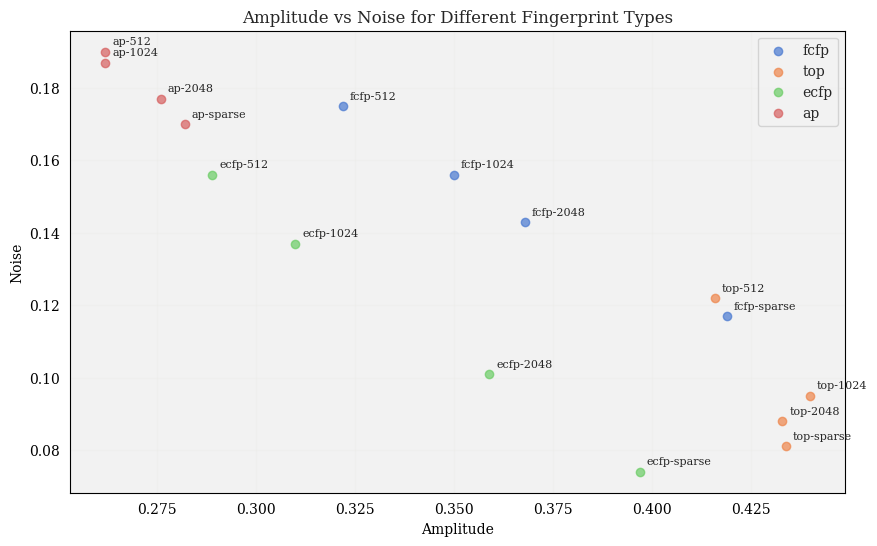
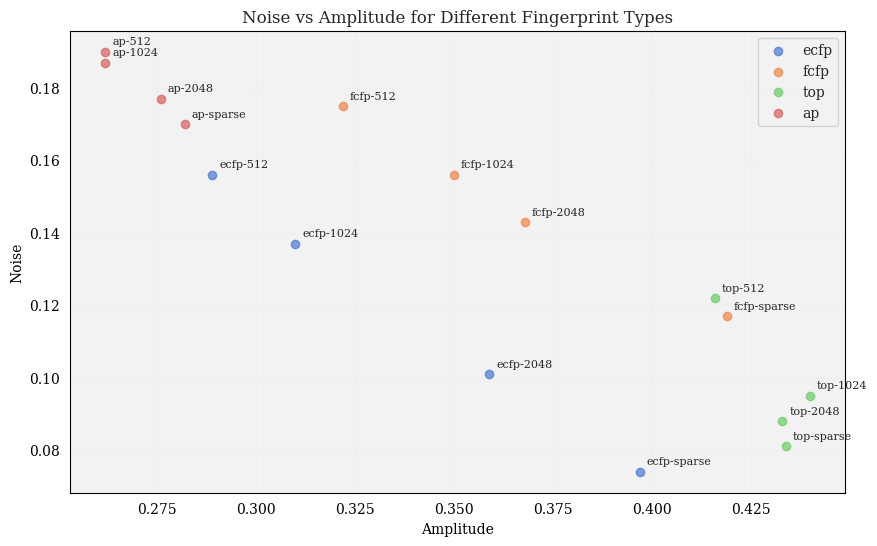
GP param diagnosis

diff --git a/code/bo_exp.py b/code/bo_exp.py
@@ -79,7 +79,7 @@ def get_data():
 def split_data(X, y, split_method, split):
 
     if split_method == 'random':
-        X, X_observed, y, y_observed = train_test_split(X, y, test_size=split, random_state=42)
+        X, X_observed, y, y_observed = train_test_split(X, y, test_size=split, random_state=1984)
 
     elif split_method == 'n_worst':
         
@@ -89,18 +89,18 @@ def split_data(X, y, split_method, split):
         lowest_indices = sorted_indices[:n] # Lowest n values
         rest_indices = sorted_indices[n:]   # All other indices
 
-        X, X_observed, y, y_observed = list(X[rest_indices]), list(X[lowest_indices]), list(y[rest_indices]), list(y[lowest_indices])
+        X, X_observed, y, y_observed = X[rest_indices], X[lowest_indices], y[rest_indices], y[lowest_indices]
 
-    return X, X_observed, y, y_observed
+    return list(X), list(X_observed), list(y), list(y_observed)
 
 
 
-def make_plot(best, best_uniform):
+def make_plot(best, best_uniform, num_top10_ucb, num_top10_uniform):
 
-    plt.plot(np.arange(len(best)), best, lw=1, label='UCB')
+    plt.plot(np.arange(len(best)), best, lw=1, label=f'UCB (Num > 90th percentile: {num_top10_ucb})')
     plt.scatter(np.arange(len(best)), best, s=5)
 
-    plt.plot(np.arange(len(best)), best_uniform, lw=1, label='Uniform')
+    plt.plot(np.arange(len(best)), best_uniform, lw=1, label=f'Uniform (Num > 90th percentile: {num_top10_uniform})')
     plt.scatter(np.arange(len(best)), best_uniform, s=5)
 
     plt.xlabel('Iteration')
@@ -118,14 +118,14 @@ def run_exp1(split_method, split, acq, num_iters):
     X, y = get_data()
     X, X_observed, y, y_observed = split_data(X, y, split_method, split)
     gp, gp_params = init_gp(X_observed, y_observed)
-    best, _, _, _ = optimization_loop(X, y, X_observed, y_observed, gp, gp_params, acq, num_iters=num_iters)
+    best, _, _, _, num_top10_ucb = optimization_loop(X, y, X_observed, y_observed, gp, gp_params, acq, num_iters=num_iters)
 
     X, y = get_data()
     X, X_observed, y, y_observed = split_data(X, y, split_method, split)
     gp, gp_params = init_gp(X_observed, y_observed)
-    best_uniform, _, _, _ = optimization_loop(X, y, X_observed, y_observed, gp, gp_params, uniform, num_iters=num_iters)
+    best_uniform, _, _, _, num_top10_uniform = optimization_loop(X, y, X_observed, y_observed, gp, gp_params, uniform, num_iters=num_iters)
 
-    make_plot(best, best_uniform)
+    make_plot(best, best_uniform, num_top10_ucb, num_top10_uniform)
 
 
 

diff --git a/code/utils/bo.py b/code/utils/bo.py
@@ -4,25 +4,35 @@ from scipy import stats
 def optimization_loop(X, y, X_observed, y_observed, gp, gp_params, acq_func, num_iters=30):
     
     best = []
+    num_top10 = 0
+    y_init = y.copy()
+
+    # for s in y_observed:
+    #     percentile = stats.percentileofscore(y_init, s)
+    #     if percentile > 90:
+    #         num_top10 += 1
     
     for i in range(num_iters):
 
         best.append(np.max(y_observed))
 
-        print(f"Iter: {i} | Current best: {np.max(best)} | Percentile: {stats.percentileofscore(y, np.max(best))}")
+        print(f"Iter: {i} | Current best: {np.max(best):0.3f} | Percentile: {stats.percentileofscore(y_init, np.max(best)):0.3f}")
 
         idx = acq_func(X, gp, gp_params)
 
         X_new = X.pop(idx)
         y_new = y.pop(idx)
 
-        percentile = stats.percentileofscore(y, y_new)
+        percentile = stats.percentileofscore(y_init, y_new)
 
-        print(f"Observed function value: {y_new} | Percentile: {percentile}")
+        if percentile > 90:
+            num_top10 += 1
+
+        print(f"Observed function value: {y_new:0.3f} | Percentile: {percentile:0.3f}")
 
         X_observed.append(X_new)
         y_observed.append(y_new)
 
         gp.set_training_data(X_observed, y_observed)
 
-    return best, X_observed, y_observed, gp
+    return best, X_observed, y_observed, gp, num_top10

diff --git a/code/utils/misc.py b/code/utils/misc.py
@@ -21,7 +21,7 @@ def optimize_params(gp, gp_params, tol=1e-3, max_iters=1000):
     Args:
         gp: Gaussian Process instance
         gp_params: Initial parameters
-        tol: Tolerance for convergence (default 1e-5)
+        tol: Tolerance for convergence (default 1e-3)
         max_steps: Maximum optimization steps (default 1000)
     """
 
@@ -46,9 +46,6 @@ def optimize_params(gp, gp_params, tol=1e-3, max_iters=1000):
         if grad_norm < tol:
             print(f"Converged after {i+1} steps, gradient norm = {grad_norm}")
             break
-
-    else:
-        print("Reached maximum iterations")
 
     print(f"End MLL (after optimization): {-loss}")
     print(f"End GP parameters (after optimization): {gp_params}")

diff --git a/code/evaluate_fingerprints.py b/code/evaluate_fingerprints.py
@@ -215,9 +215,9 @@ def plot(exp, fps, sizes, data, savefig=False):
 
     plt.xlabel('Amplitude')
     plt.ylabel('Noise')
-    plt.legend()
     plt.grid(True, alpha=0.3)
-    plt.title('Amplitude vs Noise for Different Fingerprint Types')
+    plt.title('Noise vs Amplitude for Different Fingerprint Types')
+    plt.legend()
 
     # Add text labels for each point
     for i, (x_val, y_val, col) in enumerate(zip(X, y, params.columns)):

diff --git a/code/utils/acq_funcs.py b/code/utils/acq_funcs.py
@@ -1,6 +1,6 @@
 import numpy as np
 
-def ucb(X, gp, gp_params, beta=.15):
+def ucb(X, gp, gp_params, beta=.05):
     """
     Computes the upper confidence bound (UCB) at points X
     using a fitted Gaussian process surrogate model

diff --git a/param-diagnosis.md b/param-diagnosis.md
@@ -1,0 +1,41 @@
+# GP Parameter Diagnosis
+
+## MLL over time
+
+**Experiment setup**: Here I fixed a fingerprint (`ecfp-sparse`), and ran hyperparameter fitting until `1e-5` convergence or `max_iters=10000` was reached. In this case, the maximum number of iterations was reached. On every 100th iteration, I evaluated the MLL.
+
+Here, I've plotted the MLL versus the iterations. The **first plot** shows the whole scale of the MLL.
+
+The **second plot** shows the MLL after the 2000th iteration, which better illuminates the behavior as the gradient norm gets small. There are two pairs of vertical lines: red and green. The first of each vertical line shows the first evaluation at which the gradient norm was below the given threshold (`1e-3` and `1e-4`, respectively). The second of each pair of lines shows the point at which the gradient norm crossed above the threshold for the first time after crossing below the threshold. As you can see, the MLL was at a maximum between iteration 3000 and 8000, then decreased and fluctuated at the end.
+
+The **third plot** shows the value of the gradient norm and corresponds to the second plot.
+
+*Thought*: I am also considering making more frequent evaluations in areas of interest, e.g., where MLL starts to drop again or where it fluctuates.
+
+<p align="center">
+<img src="figures/param-diagnosis/mll.png" alt="mll.png" width="100%"/>
+</p>
+
+## TLL over time
+
+Similar to the previous experiment, I also evaluated the TLL at every 100th iteration. To my surprise, the TLL is monotonically decreasing w.r.t. iterations. I've also plotted the baseline performance, using `y.var()` as the amplitude parameter and `0.1*amplitude` as the noise parameter. This seems to be strictly worse than all other parameters found during gradient descent.
+
+<p align="center">
+<img src="figures/param-diagnosis/tll.png" alt="tll.png" width="70%"/>
+</p>
+
+## Hyperparameter Trajectory and Loss Landscape
+
+Here I plot the hyperparameter trajectories in both the "natural" space (i.e., after softplus transformation) and "raw" space (before softplus transformation). I also plotted the natural trajectory over the loss landscape.
+
+*Thought*: One thing I noticed here is that the hyperparameters are all identical in natural space after the ~60th evaluation (all stored with 5 digits of precision). I am wondering if this is due to numerical issues when applying softplus / inverse softplus, and I can look into this if it's of importance.
+
+<p align="center">
+<img src="figures/param-diagnosis/hyperparam_trajectory.png" alt="hyper_param_trajectory.png" width="70%"/>
+</p>
+
+<p align="center">
+<img src="figures/param-diagnosis/loss_landscape.png" alt="loss_landscape.png" width="50%"/>
+</p>
+
+Furthermore, I plotted the loss landscape with finer evaluations (i.e., I "zoomed in") close to the minimum, but the shape of the loss function looked the same.

diff --git a/progress.md b/progress.md
@@ -6,7 +6,9 @@
 * Try BO exp 1 for many iters? (e.g., 100+)
 * Try EI acquisition function
 * Compare preliminary BO experiments to compressed fingerprints
-* Try BO experiments with larger tolerance
+* ~~Try BO experiments with larger tolerance~~
+* Should we try predicting different endpoints besides logP?
+* Is `gp.set_training_data()` the right method to update GP posterior?
 
 
 ### Updates:
@@ -44,7 +46,7 @@ $\rightarrow$ Slightly improved results
 - [x] Keep track of GP params for experiments (e.g., a table)
   * Make sure to undo softmax
 
-- [ ] Modify BO experiment:
+- [x] Modify BO experiment:
   * Start w/ less points, different split, $n$ worst molecules, etc.
   * Fit parameters on larger subset of data, then run BO on complement, e.g.,
     * Take 1000/2000 molecules, maximize MLL
